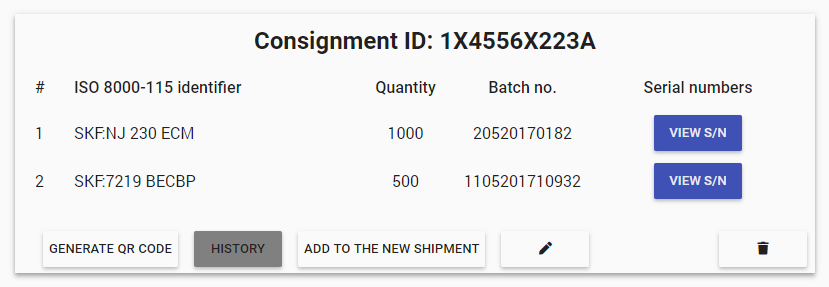
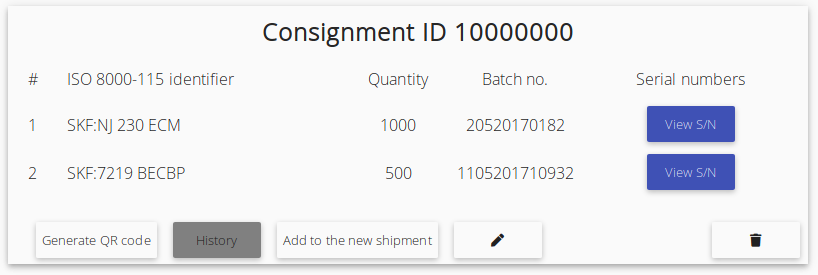
Add tables

diff --git a/index.html b/index.html
@@ -6,7 +6,7 @@
   <link rel="stylesheet" href="https://fonts.googleapis.com/css?family=Roboto:300,400,500,700,400italic">
   <link rel="stylesheet" href="https://cdn.gitcdn.link/cdn/angular/bower-material/v1.1.10/angular-material.css">
   <link rel="stylesheet" href="https://material.angularjs.org/1.1.10/docs.css">
-    <link href="https://fonts.googleapis.com/css?family=Open+Sans:300|Roboto+Condensed:300|Roboto:300,400" rel="stylesheet">
+    <link href="https://fonts.googleapis.com/css?family=Open+Sans:300|Roboto+Condensed:300|Roboto:300" rel="stylesheet">
     <script src="https://ajax.googleapis.com/ajax/libs/angularjs/1.6.7/angular.js"></script>
   <script src="https://ajax.googleapis.com/ajax/libs/angularjs/1.6.7/angular-animate.min.js"></script>
   <script src="https://ajax.googleapis.com/ajax/libs/angularjs/1.6.7/angular-route.min.js"></script>
@@ -24,8 +24,8 @@
 <div layout="column" style="height:100%" ng-controller="indexCtrl"> <!-- ng-init="isCustomsView()" -->
     <div layout="row" style="height:100%">
       <div class="sideNavLeft">
-        <md-sidenav class="md-sidenav-left" md-is-locked-open="true" style="background-color: #555555;height:100%;width: 240px; margin-left: 0; box-shadow: 0px 3px 4px -1px rgba(0, 0, 0, 0.2), 0px 4px 5px 0px rgba(0, 0, 0, 0.14), 1px 10px 10px 0px rgba(0, 0, 0, 0.12)" md-whiteframe="{{ctrl.elevation}}" ng-show="!customsView">
-            <img src="images/Kblok_logo.png" style="float: left;margin-left: 45px; height: 80px; margin-top: 2%"/>
+        <md-sidenav class="md-sidenav-left" md-is-locked-open="true" style="background-color: #555555;height:100%;width: 200px; margin-left: 0; box-shadow: 0px 3px 4px -1px rgba(0, 0, 0, 0.2), 0px 4px 5px 0px rgba(0, 0, 0, 0.14), 1px 10px 10px 0px rgba(0, 0, 0, 0.12)" md-whiteframe="{{ctrl.elevation}}" ng-show="!customsView">
+            <img src="images/Kblok_logo.png" style="margin-left: 25px; height: 80px; margin-top: 2%"/>
             <md-content style="background-color: #555555; color: lightgray">
             <md-list>
                 <md-list-item ng-href="#!/companyDashboard">
@@ -62,8 +62,8 @@
             </md-list>
           </md-content>
         </md-sidenav>
-        <md-sidenav class="md-sidenav-left" md-is-locked-open="true" style="background-color: #555555;height:100%;width: 240px; margin-left: 0; box-shadow: 0px 3px 4px -1px rgba(0, 0, 0, 0.2), 0px 4px 5px 0px rgba(0, 0, 0, 0.14), 1px 10px 10px 0px rgba(0, 0, 0, 0.12)" md-whiteframe="{{ctrl.elevation}}" ng-show="customsView">
-            <img src="images/Kblok_logo.png" style="float: left;margin-left: 45px; height: 80px; margin-top: 2%"/>
+        <md-sidenav class="md-sidenav-left" md-is-locked-open="true" style="background-color: #555555;height:100%;width: 200px; margin-left: 0; box-shadow: 0px 3px 4px -1px rgba(0, 0, 0, 0.2), 0px 4px 5px 0px rgba(0, 0, 0, 0.14), 1px 10px 10px 0px rgba(0, 0, 0, 0.12)" md-whiteframe="{{ctrl.elevation}}" ng-show="customsView">
+            <img src="images/Kblok_logo.png" style="margin-left: 25px; height: 80px; margin-top: 2%;"/>
             <md-content style="background-color: #555555; color: lightgray">
                 <md-list>
                     <md-list-item ng-href="#!/customsDashboard">
@@ -85,7 +85,7 @@
             </md-content>
         </md-sidenav>
     </div>
-    <div layout="column" style="margin-left: 240px; width: 100%;">
+    <div layout="column" style="margin-left: 200px; width: 100%;">
       <div style="margin-bottom: auto">
         <main ng-view=""></main>
       </div>

diff --git a/views/customs/html/analyseEntity.html b/views/customs/html/analyseEntity.html
@@ -38,7 +38,7 @@
     <!---------------------------------------------------------------------->
     <div layout="row" style="width: 100%; margin: 0px; margin-top: 25px;    ">
         <div flex="100" layout="row" style="margin-left: 1%  ">
-            <div flex="65">
+            <div flex="70">
                 <table style="float: left; text-align: left !important;">
                     <tr>
                         <td class="shipmentInforTR">Headquarters:</td>
@@ -67,12 +67,21 @@
                 </table>
 
             </div>
-            <div flex="35">
-                <ul>
-                    <li>Overall Risk Factor: <span style="color: #00a80d">2.82%</span></li>
-                    <li>Overall Tariff Code Risk Factor (ambiguous) : <span style="color: #ffa924">13.15%</span></li>
-                    <li>Documentation Risk Factor: <span style="color: #63ff37">8.90%</span></li>
-                </ul>
+            <div flex="30" style="margin-right: 2%;">
+                <table style="float: left; text-align: left !important; width: 85%; float: right">
+                    <tr>
+                        <td class="shipmentInforTR">Overall Risk Factor: </td>
+                        <td class="shipmentInforTR"><span style="color: #00a80d">2.82%</span></td>
+                    </tr>
+                    <tr>
+                        <td class="shipmentInforTR">Overall Tariff Code Risk Factor (ambiguous) :</td>
+                        <td class="shipmentInforTR"><span style="color: #ffa924">13.15%</span></td>
+                    </tr>
+                    <tr>
+                        <td class="shipmentInforTR">Documentation Risk Factor:</td>
+                        <td class="shipmentInforTR"><span style="color: #63ff37">8.90%</span></td>
+                    </tr>
+                </table>
             </div>
         </div>
 

diff --git a/views/customs/html/analyseConsignment.html b/views/customs/html/analyseConsignment.html
@@ -69,14 +69,23 @@
                 </table>
 
             </div>
-            <div flex="35">
-                <ul>
-                    <li>Overall Risk Factor: <span style="color: lightgreen">6.54%</span></li>
-                    <li>Overall Tariff Code Risk Factor (ambiguous) : <span style="color: green">3.15%</span></li>
-                    <li>Documentation Risk Factor: <span style="color: #ffd219">12.90%</span></li>
-                </ul>
+            <div flex="30" style="margin-right: 2%;">
+                <table style="float: left; text-align: left !important; width: 100%; float: right">
+                    <tr>
+                        <td class="shipmentInforTR">Overall Risk Factor: </td>
+                        <td class="shipmentInforTR"><span style="color: lightgreen">6.54%</span></td>
+                    </tr>
+                    <tr>
+                        <td class="shipmentInforTR">Overall Tariff Code Risk Factor (ambiguous) :</td>
+                        <td class="shipmentInforTR"><span style="color: green">3.15%</span></td>
+                    </tr>
+                    <tr>
+                        <td class="shipmentInforTR">Documentation Risk Factor:</td>
+                        <td class="shipmentInforTR"><span style="color: #ffd219">12.90%</span></td>
+                    </tr>
+                </table>
             </div>
-        </div>
+          </div>
         <div flex="30">
             <img src="images/earth.png" style="width: 500px;">
         </div>

diff --git a/views/customs/html/analyseShipment.html b/views/customs/html/analyseShipment.html
@@ -69,12 +69,21 @@
                 </table>
 
             </div>
-            <div flex="35">
-                <ul>
-                    <li>Overall Risk Factor: <span style="color: lightgreen">8.12%</span></li>
-                    <li>Overall Tariff Code Risk Factor (ambiguous) : <span style="color: green">3.15%</span></li>
-                    <li>Documentation Risk Factor: <span style="color: #ffd219">12.90%</span></li>
-                </ul>
+            <div flex="30" style="margin-right: 2%;">
+                <table style="float: left; text-align: left !important; width: 100%; float: right">
+                    <tr>
+                        <td class="shipmentInforTR">Overall Risk Factor: </td>
+                        <td class="shipmentInforTR"><span style="color: lightgreen">8.12%</span></td>
+                    </tr>
+                    <tr>
+                        <td class="shipmentInforTR">Overall Tariff Code Risk Factor (ambiguous) :</td>
+                        <td class="shipmentInforTR"><span style="color: green">3.15%</span></td>
+                    </tr>
+                    <tr>
+                        <td class="shipmentInforTR">Documentation Risk Factor:</td>
+                        <td class="shipmentInforTR"><span style="color: #ffd219">12.90%</span></td>
+                    </tr>
+                </table>
             </div>
         </div>
         <div flex="30">

diff --git a/views/company/html/myConsignments.html b/views/company/html/myConsignments.html
@@ -2,7 +2,7 @@
 <div ng-app="myApp.comapny" ng-controller="newConsignmentCtrl">
     <div layout="row" style="margin: 0px; margin-bottom: 5%; padding: 0px 0; background: linear-gradient(to bottom, rgba(62,62,62,0.8),rgba(137,137,137,0.5)), url('images/myConsignments.png'); background-size: 100%; background-position-y: center; height:200px;">
         <div class="pageTitle" layout="column" flex="auto">
-            <h1 style="color: white; font-size: 40px; text-align: left">My consignments</h1>
+            <h1 class="robotoLight" style="color: white; font-size: 40px; text-align: left">My consignments</h1>
         </div>
     </div>
     <div ng-show="showNoConsignmentsMessage()" class="centreButton" layout="column" style="margin-top: 50px;">
@@ -16,7 +16,7 @@
         <div ng-repeat="consignment in getConsignments">
             <div layout="column" class="post" md-whiteframe="{{ctrl.elevation}}" style="padding-left: 20px; margin:auto;">
                 <div style="text-align: center; vertical-align: middle;">
-                    <h2><b>Consignment number {{$index}}</b></h2> <!-- {{consignment.products}} -->
+                    <h2><b>Consignment ID {{$index+10000000}}</b></h2> <!-- {{consignment.products}} -->
                 </div>
 
                 <div flex="100" layout="row">

diff --git a/views/company/html/newShipment.html b/views/company/html/newShipment.html
@@ -3,7 +3,7 @@
 <div ng-app="myApp.company" ng-controller="newShipmentCtrl">
     <div layout="row" style="margin: 0px; margin-bottom: 5%; padding: 0px 0; background: linear-gradient(to bottom, rgba(62,62,62,0.8),rgba(137,137,137,0.5)), url('images/newShipment.png'); background-size: 100%; background-position-y: center; height:200px;">
         <div class="pageTitle" layout="column" flex="auto">
-            <h1 style="color: white; font-size: 40px; text-align: left">New shipment</h1>
+            <h1 class="robotoLight" style="color: white; font-size: 40px; text-align: left">New shipment</h1>
         </div>
     </div>
 
@@ -12,7 +12,7 @@
         <div ng-repeat="consignment in getConsignments track by $index">
             <div layout="column" class="post" md-whiteframe="{{ctrl.elevation}}" style="padding-left: 20px; margin:auto;">
                 <div style="text-align: center; vertical-align: middle;">
-                    <h2><b>Consignment number {{$index}}</b></h2> <!-- {{consignment.products}} -->
+                    <h2><b>Consignment ID {{$index+10000000}}</b></h2> <!-- {{consignment.products}} -->
                 </div>
 
                 <div flex="100" layout="row">

diff --git a/views/company/html/newConsignment.html b/views/company/html/newConsignment.html
@@ -2,7 +2,7 @@
 <div>
     <div layout="row" style="margin: 0px; margin-bottom: 5%; padding: 0px 0; background: linear-gradient(to bottom, rgba(62,62,62,0.8),rgba(137,137,137,0.5)), url('images/newConsignment.png'); background-size: 100%; background-position-y: center; height:200px;">
         <div class="pageTitle" layout="column" flex="auto">
-            <h1 style="color: white; font-size: 40px; text-align: left">New consignment</h1>
+            <h1 class="robotoLight" style="color: white; font-size: 40px; text-align: left">New consignment</h1>
         </div>
     </div>
     <div layout="row" layout-padding="" layout-wrap="" layout-margin="" ng-cloak="" layout-align="space-around" style="margin: auto;" ng-app="myApp.company" ng-controller="newConsignmentCtrl">

diff --git a/views/company/html/changeOfCustody.html b/views/company/html/changeOfCustody.html
@@ -2,7 +2,7 @@
 <div ng-app="myApp.company" ng-controller="changeOfCustodyCtrl">
     <div layout="row" style="margin: 0px; margin-bottom: 5%; padding: 0px 0; background: linear-gradient(to bottom, rgba(62,62,62,0.8),rgba(137,137,137,0.5)), url('images/newShipment.png'); background-size: 100%; background-position-y: center; height:200px;">
         <div class="pageTitle" layout="column" flex="auto">
-            <h1 style="color: white; font-size: 40px; text-align: left">Declare the change of Custody</h1>
+            <h1 class="robotoLight" style="color: white; font-size: 40px; text-align: left">Declare the change of Custody</h1>
         </div>
     </div>
     <div layout="column" style="margin: auto; width: 40%">

diff --git a/views/company/html/myShipments.html b/views/company/html/myShipments.html
@@ -2,7 +2,7 @@
 <div>
     <div layout="row" style="margin: 0px; margin-bottom: 5%; padding: 0px 0; background: linear-gradient(to bottom, rgba(62,62,62,0.8),rgba(137,137,137,0.5)), url('images/myShipments.png'); background-size: 100%; background-position-y: center; height:200px;">
         <div class="pageTitle" layout="column" flex="auto">
-            <h1 style="color: white; font-size: 40px; text-align: left">My shipments</h1>
+            <h1 class="robotoLight" style="color: white; font-size: 40px; text-align: left">My shipments</h1>
         </div>
     </div>
     <div ng-app="myApp.company" ng-controller="myShipmentsCtrl">

diff --git a/app.css b/app.css
@@ -1,11 +1,12 @@
 /* app css stylesheet */
 body {
-  font-family: 'Roboto', sans-serif;
+  font-family: 'Open Sans', sans-serif;
 
 }
 
 .robotoLight {
   font-weight: lighter !important;
+  font-family: "Roboto Condensed", sans-serif;
 }
 .main {
    /* Same as the width of the sidenav */
@@ -90,4 +91,8 @@ h1 {
     background-size: 100%;
     background-position-y: center;
     height:200px;
+}
+
+.md-button {
+    text-transform: none !important;
 }
